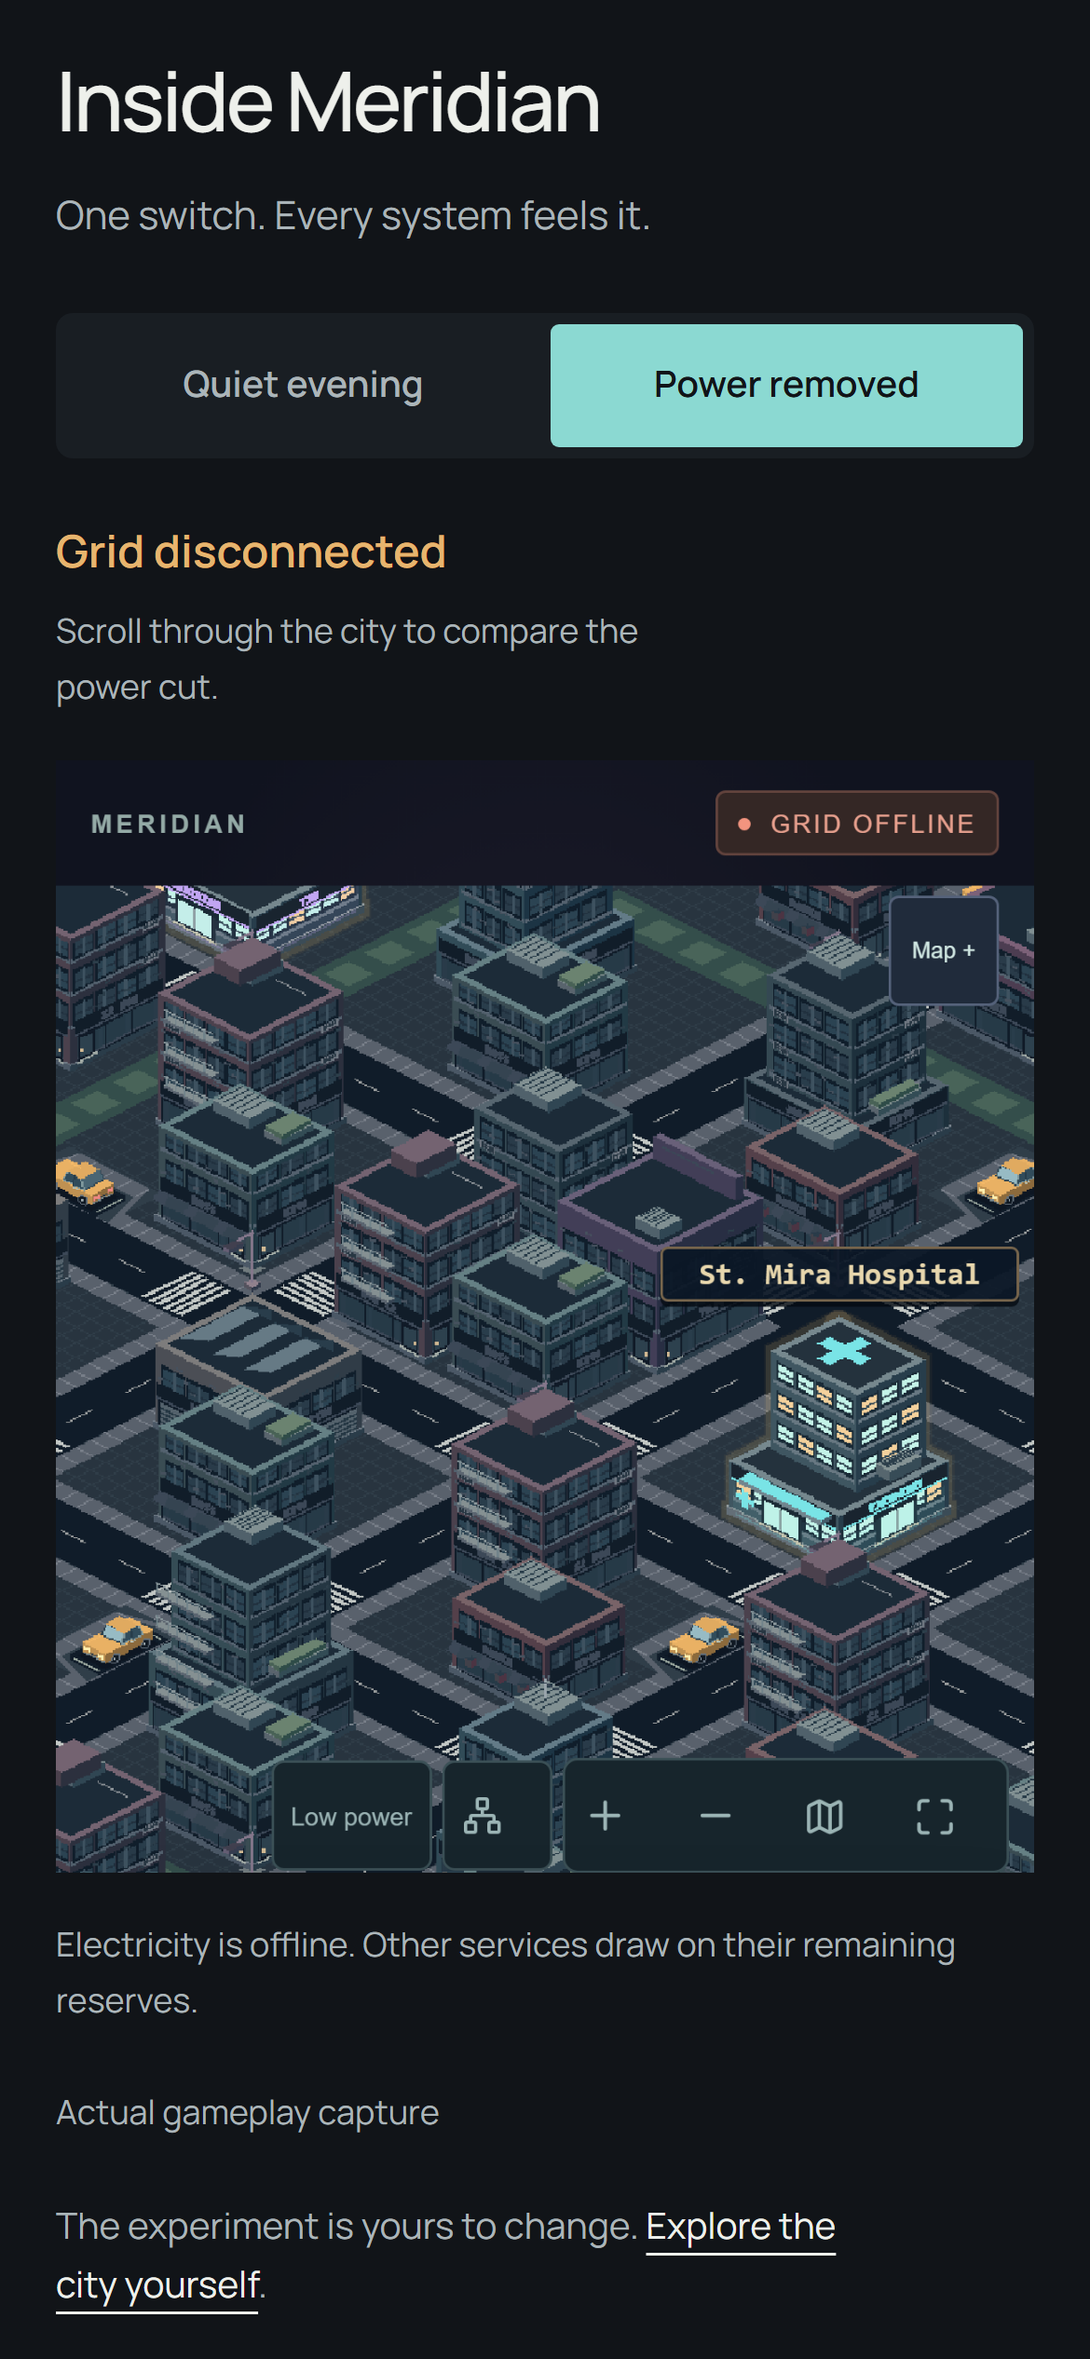
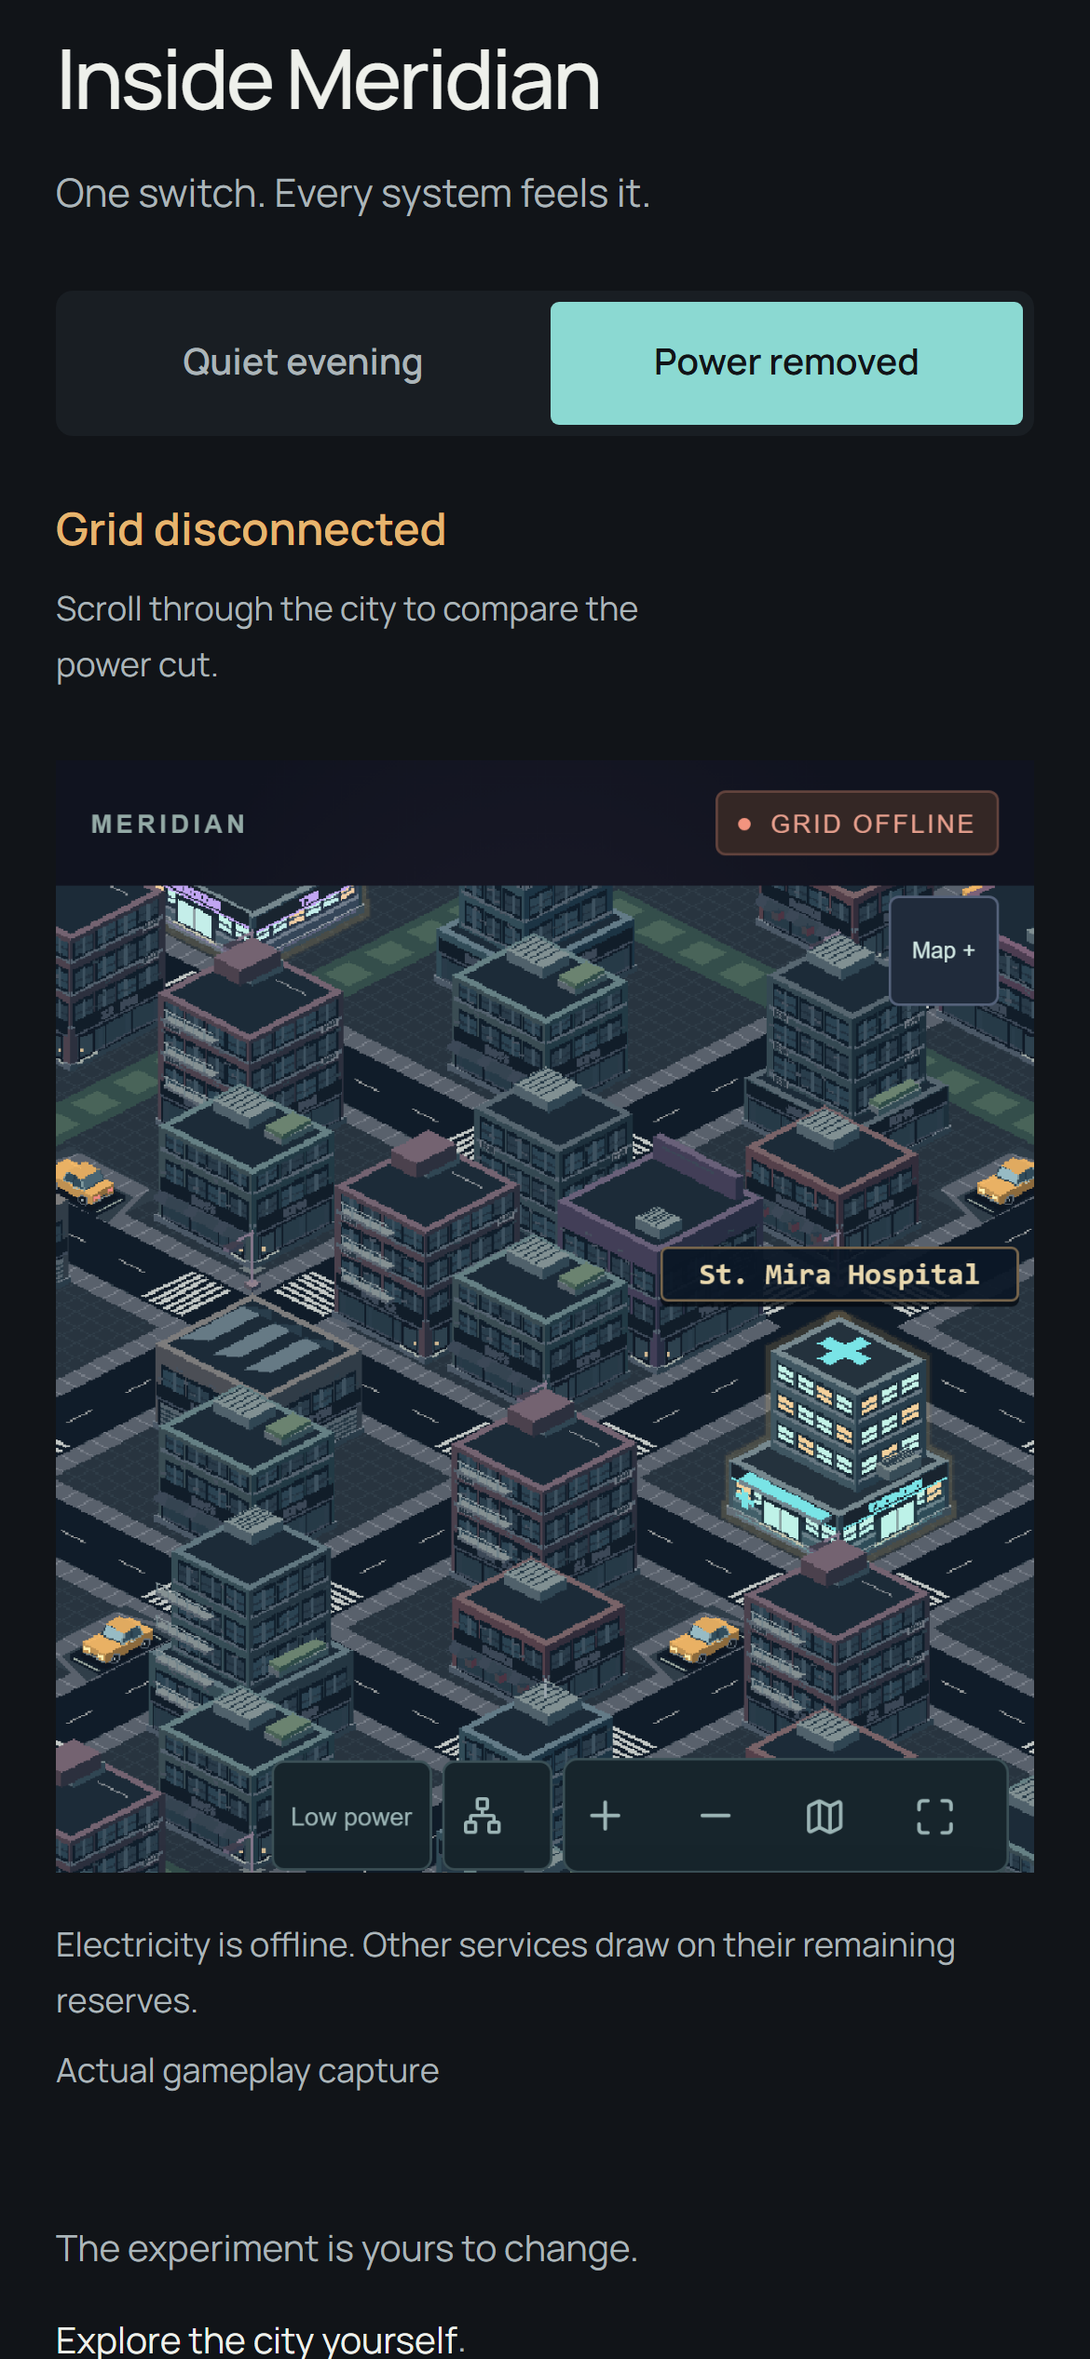
docs: record final blackout reveal verification

diff --git a/docs/landing-page/REVIEW.md b/docs/landing-page/REVIEW.md
@@ -1,52 +1,45 @@
-# Editorial landing-page review
+# Ctrl Z landing-page review
 
-2026-11-16. Scope: homepage and presentation of the unchanged playable simulation. The creator confirmed embedded play below the content and code-first development.
+17 November 2026. UI_REDESIGN.md milestones A–E are complete. Frontend Design and Impeccable refined the existing editorial homepage; the playable game remains protected.
 
-## Independent finish review
+## Result
 
-Shipped Impeccable finish reviewer, fresh context, disposition: **ship**. No material fixes. All nine required captures were valid: resting homepage at 320, 390, 768, 1280 and 1440 CSS-pixel widths, focused powered-off preview on desktop/mobile, and active embedded game on desktop/mobile. No approved comp or QUALITY BAR card exists for this explicitly code-led, brief-pinned build.
+The stronger text-led opening places the play action before a shallow authentic city glimpse on phones. The signature comparison wipes between camera-aligned real captures over a short natural-scroll window. Connected/interruption/disconnected text follows the image. Manual choices persist until the complete preview leaves view; reduced motion keeps a stable image with instant manual switching. There is no pinned stage, scroll interception, new animation library or game-state mutation.
 
-Reviewer findings: typography/material/ground, opening, story, preview interaction, embedded play and pinned form match the direction contract. Mobile stacking is a valid responsive adaptation. The restrained typography, generous separation, honest gameplay evidence and isolation of the existing game should be preserved. This verdict covers the inspected homepage and wrapper; it does not redesign or certify physical-device behavior of the protected game.
+All landing targets meet 44×44px minimums. Navigation and entry feedback are restrained, the phone preview is bounded, and its status/caption stay grouped. The same-origin game still loads only on explicit entry or #simulation, with the existing full-screen link and saved-experiment flow.
 
 ## Validation
 
-- Baseline and implementation: 100 unit tests and production build pass.
-- Landing-specific gate: nine passes, one intentional duplicate mobile viewport-matrix skip. Covers preview keyboard/pressed state, skip-link, reduced motion, no initial simulation load, entry/home/full-screen flow, saved experiments, direct anchor and explicit start control, plus 320/768/1440 layout bounds.
-- Full 90-case browser gate: 89 passed in 11.5 minutes, one deliberate duplicate mobile matrix skip. Includes the embedded minimap/inspection assertions and all existing gameplay, vehicle, rendering-idle, investigation, replay, save, report, touch/camera and minimap coverage. Benchmarks retain zero idle draws and 32 desktop / 30 mobile scripted-drag draws (emulated software GPU, not hardware FPS).
-- Source hook scans and one explicit detect pass returned no deterministic design issues. No second detector is needed.
-- Foreground contrast on graphite/raised graphite: off-white 16.09/14.62, muted copy 8.83/8.02, cyan 11.39/10.35. The cyan CTA uses graphite text.
-- Build emits separate landing and simulation CSS/JS entries. Landing-specific JS is approximately 7.25 kB (2.56 kB gzip), plus shared React runtime. No new package dependency. PNG previews load lazily and use mobile sources; the city renderer and simulation load only when requested.
+- 100 unit tests and the production TypeScript/Vite build pass.
+- The complete 104-case browser run finished with 97 passes, two intentional duplicate matrix skips and five timeouts (35.9m). The exact five failed cases passed with `--last-failed --workers=1` (2.7m), retaining all original assertions and time limits. Thus 102 distinct cases are validated across the run and follow-up, rather than a single clean full-run claim. Follow-ups covered desktop systems/vehicle/world and mobile camera selection/embedded save-navigation. Initial traces are retained in ignored review storage.
+- All new reveal, responsive, keyboard and reduced-motion cases pass. Widths: 320, 360, 390, 430, 768, 1280, 1440 and 844×390 landscape. Checks cover target bounds/overlap, first-screen entry, reverse scroll, manual re-entry, delayed-image layout stability, resize, emulated visual-viewport zoom, tab return, and no eager game load/storage mutation.
+- Actual [published Pages](https://reedhan-g.github.io/Ctrl-Z/) verification: 15 desktop/mobile cases passed, one intentional duplicate skip (1.5m). Includes the reveal, keyboard/touch/manual/reduced motion, embedded minimap/inspection/save, full-screen/home navigation, direct #simulation and explicit start. The temporary remote-only configuration uses 120s test/20s assertion budgets for networking; local tests and production source were unchanged.
+- Protected game source/styles, renderer/camera/artwork, vehicles, simulation/replay/saves and workflows have zero diff from e60ae32. The pre-existing Embarko compatibility bootstrap was preserved separately at 9ecd6ce; default game bundle hashes remain identical.
 
-## Screenshot evidence
+## Design and performance
 
-| State | Desktop | Mobile |
-| --- | --- | --- |
-| Resting homepage | [1280px](review/desktop.png) | [390px](review/mobile.png) |
-| Power-removed preview and keyboard focus | [Desktop](review/desktop-blackout.png) | [Mobile](review/mobile-blackout.png) |
-| Active embedded game after pause/save | [Desktop](review/desktop-embedded.png) | [Mobile](review/mobile-embedded.png) |
+The fresh Impeccable full review matched the visual contract and found only stale design documentation. The documenter refreshed DESIGN.md and its schema-v2 sidecar; YAML/JSON, component schema and token-reference checks pass. The reviewer scored that sole material fix resolved, disposition **ship** at fix-list scope. Four detector advisories concerned deliberate existing 23/13/17px roles, now documented; there were no primary findings and no second detector run.
 
-Additional full-page layout captures: [320px](review/user-320.png), [768px](review/user-768.png), [1440px](review/user-1440.png). These are the nine captures the independent reviewer assessed. Standard emulated viewports were 1280x720 and 390x664; the explicit matrix used 900px height. Full-page image height includes all editorial content. Mobile DPR is 3; screenshot pixel dimensions differ from CSS viewport dimensions. Embedded captures intentionally retain the game's inner scroll position after saving; they are not opening views.
+Landing-specific JS is 10.87kB / 3.80kB gzip versus the 7.25kB / 2.56kB baseline; CSS is 9.12kB / 2.50kB gzip. No dependency was added. The selected screenshot pair is approximately 510kB desktop / 545kB phone, down from 571kB / 665kB; the opening reuses the powered image. React and the on-demand game remain split. Scroll work batches through requestAnimationFrame and writes a CSS property; React updates only discrete state. Benchmark samples retain zero idle draws and 32/30 desktop/mobile drag draws. These are software-GPU observations, not physical-device FPS or startup-speed claims.
 
-## Provenance and limits
+Off-white/muted/cyan contrast on graphite remains 16.09/8.83/11.39; amber is 9.88. Cyan actions use graphite text. Focus is visible, duplicated imagery is decorative, and actual-game provenance/camera receipts remain beside the captures.
 
-Actual captured game imagery is documented in src/assets/previews/PROVENANCE.md. Original city art and all previous references remain intact. The font and OFL are documented in src/assets/fonts; public/licenses retains the license in built output. No generated city mockup, imported reference pack, invented award, metric or testimonial was added.
+## Actual screenshot evidence
 
-Chromium desktop and mobile emulation are tested, not physical iOS/Android/Safari, battery or memory. The embedded game uses its existing scrolling behavior; Open full-screen remains available. Unsaved game state retains existing reload/navigation semantics; Save experiment/Resume saved retains the same browser slot and version.
-
-## Published verification
-
-Runtime commit: 5dd71931ec762cbf6e941071bf8adf9209791a49, verified on origin/main. Both [CI](https://github.com/reedhan-g/Ctrl-Z/actions/runs/43813326844) and [Pages deployment](https://github.com/reedhan-g/Ctrl-Z/actions/runs/43813326830) succeeded. The existing workflow and its main push trigger remain unchanged.
-
-Actual https://reedhan-g.github.io/Ctrl-Z/ passed the homepage, preview, keyboard/reduced-motion, direct anchor/start, guided experiment and existing blackout/inspection/intervention/replay checks on desktop/mobile. Thirteen cases were validated through eleven passes in the initial network-enabled run and two passing focused navigation follow-ups (31.3s); the single duplicate mobile matrix was intentionally skipped. Final homepage capture checks passed twice more in 6.8s.
-
-The first attempt was blocked by the network sandbox before loading any page. Authorized networking resolved that. The longer remote flows subsequently encountered total-test deadlines, one HTTP 503 and an atlas request still pending at the default five-second assertion deadline. A temporary configuration derived from playwright.config.ts disabled the local server, set the published base URL and used remote-only timeout 120000 / expect timeout 20000. The two navigation follow-ups then passed with all original expected outcomes. Local defaults, test assertions and production source remained unchanged; this is not a cold-start performance claim. Temporary config/traces remain ignored under .impeccable/review.
-
-The following actual published captures were opened and visually verified:
+Every linked capture below was opened. Full-page views begin at the document top. Reveal states are viewport captures at the actual scroll position, avoiding full-page capture altering progress.
 
 | State | Desktop | Mobile |
 | --- | --- | --- |
-| Homepage | [Desktop](deployed/desktop.png) | [Mobile](deployed/mobile.png) |
-| Power-removed preview | [Desktop](deployed/desktop-blackout.png) | [Mobile](deployed/mobile-blackout.png) |
-| Embedded hospital inspection after pause/save | [Desktop](deployed/desktop-embedded.png) | [Mobile](deployed/mobile-embedded.png) |
+| Before this task | [Before](redesign/before/desktop.png) | [Before](redesign/before/mobile.png) |
+| Published homepage | [1440px](redesign/deployed/desktop.png) | [390px](redesign/deployed/mobile.png) |
+| Published halfway reveal | [Halfway](redesign/deployed/desktop-halfway.png) | [Halfway](redesign/deployed/mobile-halfway.png) |
+| Published blackout | [Blackout](redesign/deployed/desktop-blackout.png) | [Blackout](redesign/deployed/mobile-blackout.png) |
+| Published paused hospital inspection in embed | [Game](redesign/deployed/desktop-embedded.png) | [Game](redesign/deployed/mobile-embedded.png) |
 
-The runtime is unchanged by the documentation/evidence checkpoint containing this receipt. No requested implementation remains unfinished. Future work should follow creator feedback and retain the protected game.
+Additional evidence: [all five reveal states on both devices](redesign/reveal/README.md), [complete responsive/resize matrix](redesign/responsive/README.md), [editorial checkpoint](redesign/editorial/desktop.png), and [direction contract](REDESIGN.md).
+
+## Release and limits
+
+Runtime milestones 330d4e5, aba609a and fcc1844 and documentation refresh 5f9fd61 were pushed/verified on origin/main. For the published verification above, [CI](https://github.com/reedhan-g/Ctrl-Z/actions/runs/44114530187) and [Pages](https://github.com/reedhan-g/Ctrl-Z/actions/runs/44114530202) succeeded at 5f9fd61. This final evidence checkpoint changes documentation/captures only; the runtime is identical.
+
+Chromium desktop and emulated touch are tested. Physical iOS/Android/Safari, battery and memory remain unverified. The protected embed retains its existing internal scrolling; Open full-screen remains available before play. The original homepage review remains in Git history and its capture directories are preserved.

diff --git a/CODEX_HANDOFF_README.md b/CODEX_HANDOFF_README.md
@@ -4,7 +4,7 @@
 
 Pushed/verified checkpoints: 9ecd6ce preserves the prior Embarko CSP work; 84ec59c captures aligned real scenes/baselines; 330d4e5 refines first-viewport composition; aba609a implements the signature reveal; fcc1844 finishes responsive targets/microinteractions. A–D are complete. Actual evidence is docs/landing-page/redesign/{before,editorial,reveal,responsive}. Game code/art/workflows remain unchanged, with identical game bundle hashes.
 
-E is in progress. DESIGN.md/sidecar now match the shipped system; the fresh Impeccable review matched the visuals, requested only this documentation correction, then scored it resolved (ship at fix-list scope). Production build and 100 units pass. CI 44108238148/Pages 44108238171 succeeded for fcc1844. The full 104-case local browser gate is still running; three desktop timeouts so far need isolated follow-up. Actual new published browser checks and the final evidence receipt remain. Do not declare the gate complete prematurely or restart completed visual work. No further game/UI redesign is authorized.
+E is complete. DESIGN.md/sidecar refresh is pushed at 5f9fd61; the fresh Impeccable review matched the visuals and scored its sole documentation finding resolved (ship at fix-list scope). Production build and 100 units pass. Full browser run: 97 passed, two intentional duplicate skips, five timeouts (35.9m); exact five follow-ups passed with original limits/assertions (2.7m), validating all 102 distinct cases. Published Pages: 15 passes, one duplicate skip (1.5m). CI 44114530187 and Pages 44114530202 succeeded at 5f9fd61. All eight current published captures were opened in docs/landing-page/redesign/deployed; docs/landing-page/REVIEW.md records evidence/performance/limits. The final evidence commit leaves runtime unchanged. No requested implementation remains. Next follow creator feedback and external physical-device/Safari testing; do not restart completed visual work or the paused Embarko authentication. No further game/UI redesign is authorized.
 
 UI_REDESIGN.md is the new task and was read completely. Preserve the existing editorial world and game; make a local natural-scroll powered/blackout reveal the signature interaction. Main/origin/main began at e60ae32 with uncommitted Embarko compatibility work and unrelated user skills. That prior fix is preserved separately after fresh 100-unit/two production-CSP browser validation. The earlier claim operation was stopped; no local success receipt confirms permanence. Do not publish credentials or resume authentication as part of the landing redesign. Read DEVELOPMENT_STATUS.md and the new landing redesign plan/evidence as milestones progress; continue tested verified pushes to main without resetting or discarding work.
 

diff --git a/DEVELOPMENT_STATUS.md b/DEVELOPMENT_STATUS.md
@@ -1,6 +1,10 @@
 # Ctrl Z - Development Status
 
-## UI_REDESIGN.md started — 17 November 2026
+## UI_REDESIGN.md complete — 17 November 2026
+
+A–E complete. Editorial composition, aligned natural-scroll blackout reveal, manual/reduced-motion controls and responsive finish are pushed at 330d4e5, aba609a and fcc1844; actual design documentation is refreshed at 5f9fd61. The final evidence checkpoint records reviewed published desktop/mobile homepage, halfway, blackout and embedded inspection captures in docs/landing-page/redesign/deployed; current phone reveal captures are also refreshed. No protected game code, artwork, simulation, saves, minimap, vehicles or workflow changed.
+
+Final validation: 100 units and production build pass. Full 104-case browser gate: 97 passed, two intentional duplicate skips, five timeouts (35.9m); exact five follow-ups pass unchanged with original limits/assertions (2.7m), validating all 102 distinct cases. Actual Pages: 15 passed, one deliberate duplicate skip (1.5m), including embedded/full-screen/home/saves and new reveal interactions. CI 44114530187 and Pages 44114530202 succeeded at 5f9fd61. Fresh Impeccable review matched the visual contract; its sole documentation finding was scored resolved/ship at fix-list scope. DESIGN/sidecar schema checks pass. See docs/landing-page/REVIEW.md for evidence, bundle measurements and exact limits. No requested implementation remains; next follow creator feedback, with physical-device/Safari testing an external follow-up. Preserve unrelated user skill files and the paused Embarko authentication operation.
 
 Milestone E documentation checkpoint: fresh shipped Impeccable reviewer found the visual direction/captures matched and requested only persistence correction. DESIGN.md and .impeccable/design.json now reflect the actual tokens, bounded crops, local reveal/manual/reduced-motion behavior and protected game boundary; schema/reference checks pass. Verdict pass scored that sole fix resolved, disposition ship at documentation-fix scope. 100 unit tests pass. Runtime fcc1844 is pushed/verified; CI 44108238148 and Pages 44108238171 succeeded. The complete 104-case browser gate is still running; three desktop timeouts so far need isolated follow-up (systems keyboard sequence, vehicle capture sequence, world context teardown). Do not claim full regression or new deployed browser verification yet. Game source/art/workflow diff remains empty. Next: finish browser gate, investigate/rerun failed cases, then actual published desktop/mobile verification and final evidence receipt.
 

diff --git a/docs/landing-page/redesign/reveal/README.md b/docs/landing-page/redesign/reveal/README.md
@@ -12,4 +12,6 @@
 
 All ten images were opened. Geometry remains aligned; original game light changes provide the effect. The powered arrival capture shows only the top of the scene because the transition begins as it enters view. Status is outside the screenshot as accessible live text; the duplicate capture is decorative. No sticky stage, scroll interception, runtime dependency or game mutation.
 
+The phone captures were refreshed after milestone D's caption/summary spacing finish. Both source image pairs and camera receipts remain unchanged.
+
 Validation: 13 passing reveal and existing landing cases, one deliberate duplicate mobile matrix skip (1.4m), plus production build. Covers forward/reverse scroll, manual persistence/re-entry, keyboard/touch, reduced motion, repeated/direct anchors, no eager game load/storage change, embedded minimap/inspection/save/home/full-screen flow, direct #simulation and start control. Phone/Safari hardware remains untested. Full regression and complete width matrix follow in D/E.
